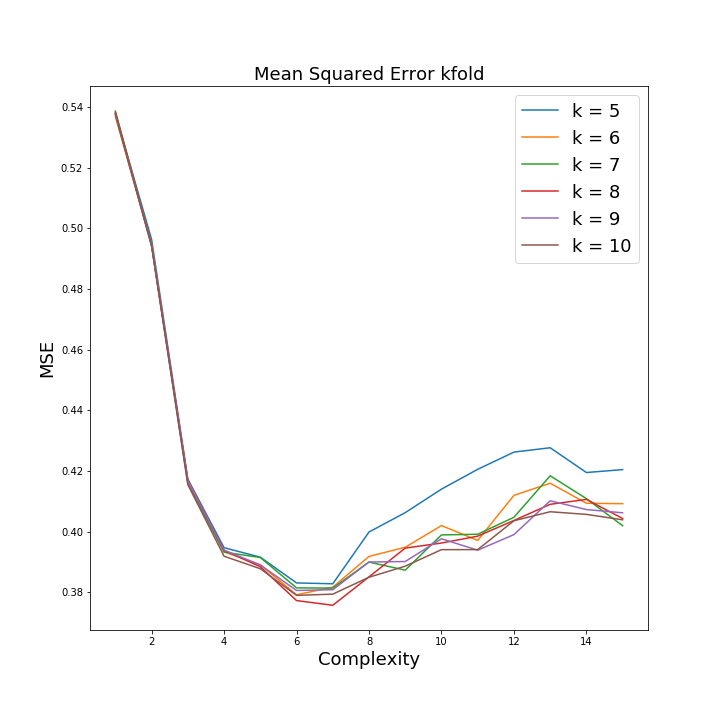
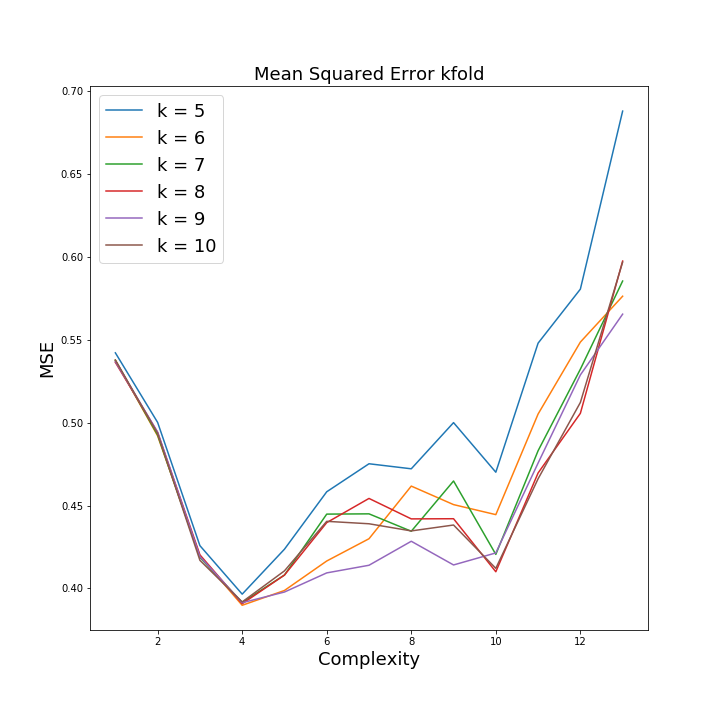
update on ridge and lasso

diff --git a/Project1/ex1.py b/Project1/ex1.py
@@ -186,7 +186,7 @@ def ci(beta, var, n, z=1.96):
         ci_final.append([ci1[i],ci2[i]])
     return ci_final
 
-N = 1000
+N = 500
 x = np.random.uniform(0, 1, N)
 y = np.random.uniform(0, 1, N)
 # Make data.
@@ -196,7 +196,7 @@ y = np.random.uniform(0, 1, N)
 #x1, y1 = np(x,y)
 z = FrankeFunction(x, y)
 #z = FrankeFunction(x, y)
-complex = 15 #complexity of model
+complex = 13 #complexity of model
 X = create_X(x,y,complex)
 
 test_train_l = train_test_split(X,z,test_size=0.2)
@@ -236,9 +236,9 @@ mean_mse_train = np.mean(mse_train, axis = 1) #calculating mean of MSE of all bo
 mean_mse_test = np.mean(mse_test, axis = 1)
 mean_r2_train = np.mean(r2_train, axis = 1)
 mean_r2_test = np.mean(r2_test, axis = 1)
-"""
-#plot_mse(mean_mse_train, mean_mse_test, method_header = "bootstrap")
-"""
+
+plot_mse(mean_mse_train, mean_mse_test, method_header = "bootstrap")
+
 
 #Bootstrap and plot MSE vs # datapoints
 n_points = np.arange(100,10001,100)
@@ -278,27 +278,32 @@ for i in range(len(k)):
     mse_train_kfold[:,i], r2_train_kfold[:,i], mse_test_kfold[:,i], r2_test_kfold[:,i] = kfold(X, z_noisy, k[i])
 
 plot_mse(mse_train_kfold, mse_test_kfold, method_header = "kfold", complexities = k)
-"""
+
 #Exercise 4, Ridge
+compl = [3,4,5,6]
 nlambda = 15
 lambda_values = np.logspace(-4,0.5,nlambda) #[0.001, 0.005, 0.01, 0.05, 0.1, 0.5, 0.75, 1]
 mse_test_ridge = np.zeros((len(compl), len(lambda_values)))
 mse_train_ridge = np.zeros((len(compl), len(lambda_values)))
 r2_test_ridge = np.zeros((len(compl), len(lambda_values)))
 r2_train_ridge = np.zeros((len(compl), len(lambda_values)))
-
+"""
 for j in range(n_bs): #looping through bootstrap samples
     X_sample, z_sample = bootstrap(tts[0],tts[2])
     tts2 = [X_sample, tts[1], z_sample, tts[3]]
     for i in range(complex): #looping through complexity of model
-        mse_train_ridge[i,j], r2_train_ridge[i,j], mse_test_ridge[i,j], r2_test_ridge[i,j] = evaluate_method(ridge, tts2, scale = True, d = i+1)
-
-mean_mse_train = np.mean(mse_train, axis = 1) #calculating mean of MSE of all bootstrap samples
-mean_mse_test = np.mean(mse_test, axis = 1)
-mean_r2_train = np.mean(r2_train, axis = 1)
-mean_r2_test = np.mean(r2_test, axis = 1)
 """
+for i in range(len(compl)):
+    for j in range(len(lambda_values)):
+        mse_train_ridge[i,j], r2_train_ridge[i,j], mse_test_ridge[i,j], r2_test_ridge[i,j] = evaluate_method(ridge,
+        tts, lmb = lambda_values[j], d=compl[i], scale = True)
 
+#mean_mse_train_ridge = np.mean(mse_train_ridge, axis = 1)
+#mean_mse_test_ridge = np.mean(mse_test_ridge, axis = 1)
+#mean_r2_train_ridge = np.mean(r2_train_ridge, axis = 1)
+#mean_r2_test_ridge = np.mean(r2_test_ridge, axis = 1)
+
+plot_mse(mse_train_ridge, mse_test_ridge, method_header = "ridge", lambdas = lambda_values, plot_complexity = True, complexities = compl)
 
 
 
@@ -307,18 +312,25 @@ mean_r2_test = np.mean(r2_test, axis = 1)
 
 #Exercise 5, Lasso
 nlambda = 15
-lambda_values = np.logspace(-4,0.5,nlambda) #[0.001, 0.005, 0.01, 0.05, 0.1, 0.5, 0.75, 1]
-compl = [2,3,4,5,6,7,8]
+lambda_values = np.logspace(-2,0.5,nlambda) #[0.001, 0.005, 0.01, 0.05, 0.1, 0.5, 0.75, 1]
 mse_test_lasso = np.zeros((len(compl), len(lambda_values)))
 mse_train_lasso = np.zeros((len(compl), len(lambda_values)))
 r2_test_lasso = np.zeros((len(compl), len(lambda_values)))
 r2_train_lasso = np.zeros((len(compl), len(lambda_values)))
+beta_lasso = lasso(tts[0], tts[2], 1)
+z_predict = predict(beta)
 
 
+
+"""
 for i in range(len(compl)):
     for j in range(len(lambda_values)):
         mse_train_lasso[i,j], r2_train_lasso[i,j], mse_test_lasso[i,j], r2_test_lasso[i,j] = evaluate_method(lasso,
         tts, lmb = lambda_values[j], d=compl[i], scale = False)
+
+print(mse_test_lasso)
+"""
+
 
 #plot_mse(mse_train_lasso, mse_test_lasso, method_header = 'lasso', plot_complexity = True, lambdas = lambda_values, complexities = compl)
 
@@ -330,8 +342,9 @@ from matplotlib import cm
 # Load the terrain
 terrain1 = imread('SRTM_data_Norway_1.tif')
 x, y = np.meshgrid(range(terrain1.shape[1]), range(terrain1.shape[0]))
+z_terrain = terrain1.flatten().astype(np.float)
 X = create_X(x.flatten(),y.flatten(), 5)
-train_test_terrain = train_test_split(X, terrain1.flatten(), test_size = 0.2)
+train_test_terrain = train_test_split(X, z_terrain, test_size = 0.2)
 print(f"OLS terrain: {evaluate_method(ols, train_test_terrain, scale = True, d = 5)}")
 
 
